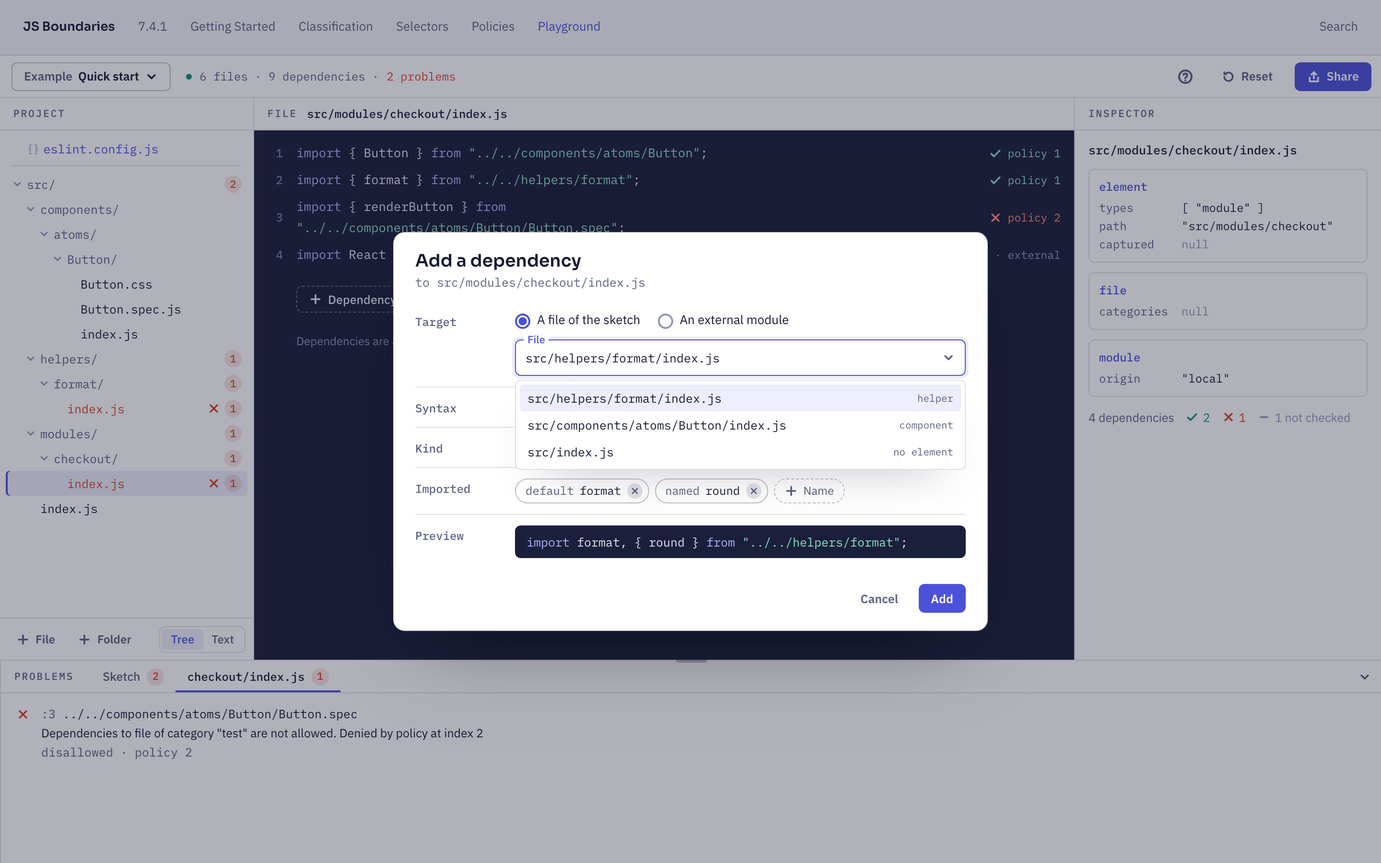
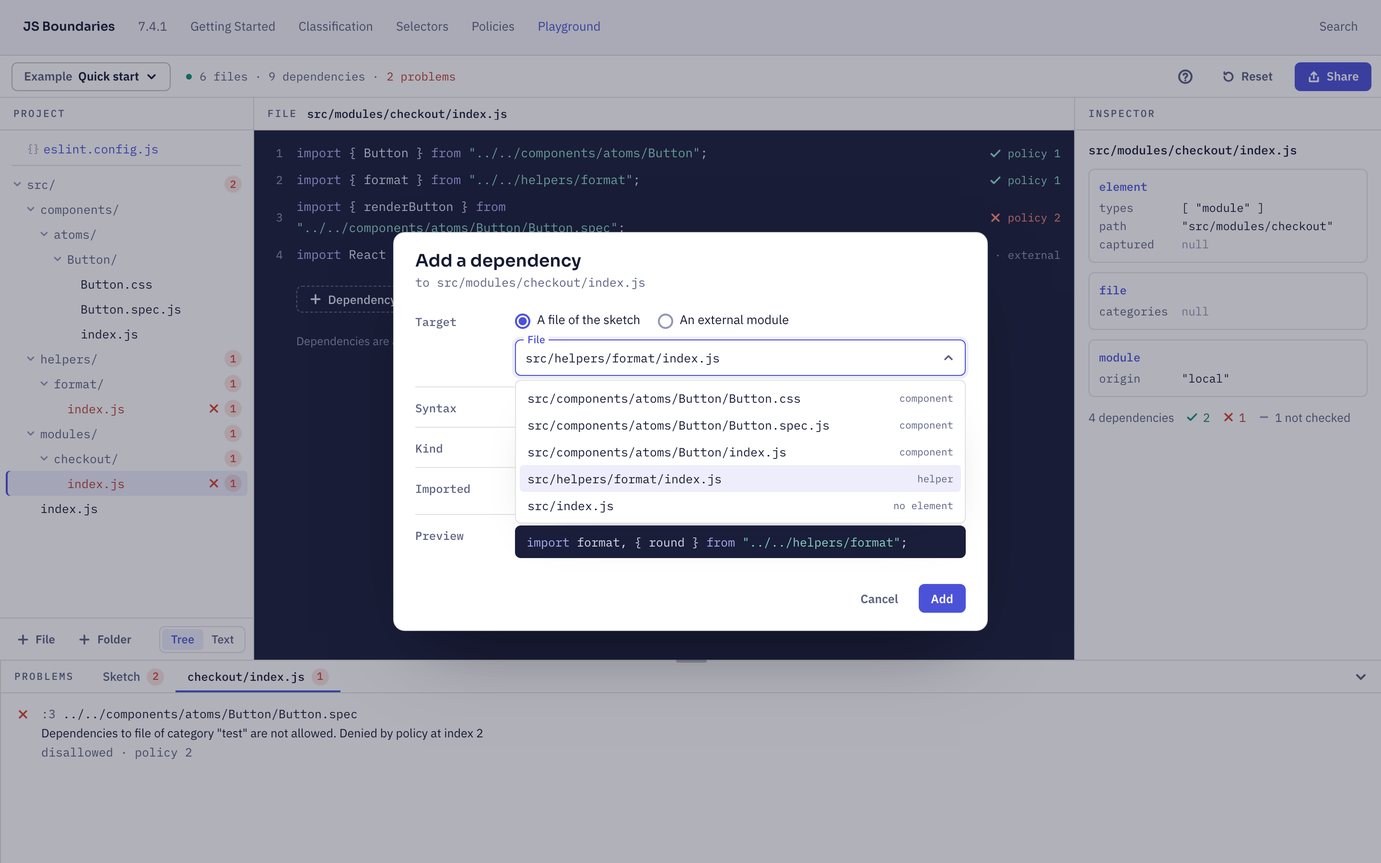
chore(playground): finish phase 6 in the plan

Changed region(s): [[0.375, 0.4978, 0.6562, 0.6222], [0.4375, 0.4356, 0.5312, 0.4667], [0.5312, 0.4667, 0.5625, 0.4978]]

diff --git a/.agents/plans/playground/mockups/playground.html b/.agents/plans/playground/mockups/playground.html
@@ -150,19 +150,44 @@
         stroke-linejoin: round;
       }
 
+      /* Text in a state color mixes 15% of --jsb-ink into the token, for contrast; "not checked" text is
+         --jsb-muted. Icons, count badges, outlines and the colors inside code areas keep the plain tokens. */
       .ok {
-        color: var(--jsb-ok);
+        color: color-mix(in srgb, var(--jsb-ok) 85%, var(--jsb-ink));
       }
 
       .bad {
-        color: var(--jsb-bad);
+        color: color-mix(in srgb, var(--jsb-bad) 85%, var(--jsb-ink));
       }
 
       .warn {
-        color: var(--jsb-warn);
+        color: color-mix(in srgb, var(--jsb-warn) 85%, var(--jsb-ink));
       }
 
       .faint {
+        color: var(--jsb-muted);
+      }
+
+      .icon.ok,
+      .ok .icon,
+      .count.ok {
+        color: var(--jsb-ok);
+      }
+
+      .icon.bad,
+      .bad .icon,
+      .count.bad {
+        color: var(--jsb-bad);
+      }
+
+      .icon.warn,
+      .warn .icon,
+      .count.warn {
+        color: var(--jsb-warn);
+      }
+
+      .icon.faint,
+      .faint .icon {
         color: var(--jsb-faint);
       }
 
@@ -441,7 +466,7 @@
       }
 
       .tree li.is-bad .name {
-        color: var(--jsb-bad);
+        color: color-mix(in srgb, var(--jsb-bad) 85%, var(--jsb-ink));
       }
 
       .tree li.is-target {
@@ -527,10 +552,6 @@
         font: 12px/20px var(--jsb-font-mono);
         color: var(--jsb-ink);
         white-space: pre;
-      }
-
-      .text-mode .dep {
-        color: var(--jsb-muted);
       }
 
       .text-mode .caret {
@@ -1196,6 +1217,10 @@
         position: relative;
       }
 
+      .field .flip {
+        transform: rotate(180deg);
+      }
+
       .listbox {
         position: absolute;
         z-index: 1;
@@ -1568,19 +1593,19 @@
           <pre class="text-mode" data-show="text" aria-label="Project as text">eslint.config.js
 src/components/atoms/Button/Button.css
 src/components/atoms/Button/Button.spec.js
-<span class="dep">  import { Button } from "./index";</span>
+  import { Button } from "./index";
 src/components/atoms/Button/index.js
-<span class="dep">  import { format } from "../../../helpers/format";</span>
-<span class="dep">  import "./Button.css";</span>
+  import { format } from "../../../helpers/format";
+  import "./Button.css";
 src/helpers/format/index.js
-<span class="dep">  import { Button } from "../../components/atoms/Button";</span>
+  import { Button } from "../../components/atoms/Button";
 src/modules/checkout/index.js
-<span class="dep">  import { Button } from "../../components/atoms/Button";</span>
-<span class="dep">  import { format } from "../../helpers/format";</span>
-<span class="dep">  import { renderButton } from "../../components/atoms/Button/Button.spec";</span>
-<span class="dep">  import React from "react";</span>
+  import { Button } from "../../components/atoms/Button";
+  import { format } from "../../helpers/format";
+  import { renderButton } from "../../components/atoms/Button/Button.spec";
+  import React from "react";
 src/index.js
-<span class="dep">  import "./modules/checkout";</span>
+  import "./modules/checkout";
 src/pages/<span class="caret"></span>
 </pre>
 
@@ -1645,18 +1670,18 @@ src/pages/<span class="caret"></span>
             <ol class="lines">
               <li class="line"><span class="gut"></span><span class="ln">1</span><span class="stmt">{</span></li>
               <li class="line"><span class="gut"></span><span class="ln">2</span><span class="stmt">  <span class="key">settings</span>: {</span></li>
-              <li class="line"><span class="gut"></span><span class="ln">3</span><span class="stmt">    <span class="str">"boundaries/elements"</span>: [</span></li>
+              <li class="line"><span class="gut"></span><span class="ln">3</span><span class="stmt">    <span class="key">"boundaries/elements"</span>: [</span></li>
               <li class="line"><span class="gut"></span><span class="ln">4</span><span class="stmt">      { <span class="key">type</span>: <span class="str">"helper"</span>, <span class="key">pattern</span>: <span class="str">"helpers/*"</span> },</span></li>
               <li class="line"><span class="gut"><svg class="icon" style="color: var(--jsb-code-number)" data-show="config"><use href="#i-warn" /></svg></span><span class="ln">5</span><span class="stmt">      <span data-class-in="config:u-warn">{ <span class="key">type</span>: <span class="str">"component"</span>, <span class="key"><span data-show="config">patern</span><span data-show="policy">pattern</span></span>: <span class="str">"components/*/*"</span> }</span>,</span></li>
               <li class="line"><span class="gut"></span><span class="ln">6</span><span class="stmt">      { <span class="key">type</span>: <span class="str">"module"</span>, <span class="key">pattern</span>: <span class="str">"modules/*"</span> },</span></li>
               <li class="line"><span class="gut"></span><span class="ln">7</span><span class="stmt">    ],</span></li>
-              <li class="line"><span class="gut"></span><span class="ln">8</span><span class="stmt">    <span class="str">"boundaries/files"</span>: [</span></li>
+              <li class="line"><span class="gut"></span><span class="ln">8</span><span class="stmt">    <span class="key">"boundaries/files"</span>: [</span></li>
               <li class="line"><span class="gut"></span><span class="ln">9</span><span class="stmt">      { <span class="key">pattern</span>: <span class="str">"**/*.spec.js"</span>, <span class="key">category</span>: <span class="str">"test"</span> },</span></li>
               <li class="line"><span class="gut"></span><span class="ln">10</span><span class="stmt">      { <span class="key">pattern</span>: <span class="str">"**/*.css"</span>, <span class="key">category</span>: <span class="str">"style"</span> },</span></li>
               <li class="line"><span class="gut"></span><span class="ln">11</span><span class="stmt">    ],</span></li>
               <li class="line"><span class="gut"></span><span class="ln">12</span><span class="stmt">  },</span></li>
               <li class="line"><span class="gut"></span><span class="ln">13</span><span class="stmt">  <span class="key">rules</span>: {</span></li>
-              <li class="line"><span class="gut"></span><span class="ln">14</span><span class="stmt">    <span class="str">"boundaries/dependencies"</span>: [<span class="num">2</span>, {</span></li>
+              <li class="line"><span class="gut"></span><span class="ln">14</span><span class="stmt">    <span class="key">"boundaries/dependencies"</span>: [<span class="num">2</span>, {</span></li>
               <li class="line" data-active-in="config"><span class="gut"><svg class="icon" style="color: var(--jsb-code-error)" data-show="config"><use href="#i-cross" /></svg></span><span class="ln">15</span><span class="stmt">      <span class="key">default</span>: <span class="str" data-class-in="config:u-error"><span data-show="config">"dissallow"</span><span data-show="policy">"disallow"</span></span>,</span></li>
               <li class="line"><span class="gut"></span><span class="ln">16</span><span class="stmt">      <span class="key">policies</span>: [</span></li>
               <li class="line"><span class="gut"></span><span class="ln">17</span><span class="stmt">        {</span></li>
@@ -1675,6 +1700,8 @@ src/pages/<span class="caret"></span>
               <li class="line"><span class="gut"></span><span class="ln">30</span><span class="stmt">    }],</span></li>
               <li class="line"><span class="gut"></span><span class="ln">31</span><span class="stmt">  },</span></li>
               <li class="line"><span class="gut"></span><span class="ln">32</span><span class="stmt">}</span></li>
+              <!-- The config text ends with a newline, so the editor shows an empty last line -->
+              <li class="line"><span class="gut"></span><span class="ln">33</span><span class="stmt"></span></li>
             </ol>
             <!-- Above the range and from its start, where @codemirror/lint opens its hover tooltip -->
             <div class="lint-tip" style="top: 240px; left: 167px" data-show="config">
@@ -1788,7 +1815,7 @@ src/pages/<span class="caret"></span>
               <button class="tab mono-label" role="tab" data-show="policy" data-selected-tab-in="policy">eslint.config.js</button>
             </div>
             <span class="spacer"></span>
-            <button class="icon-btn" type="button" aria-label="Collapse the problems"><svg class="icon"><use href="#i-collapse" /></svg></button>
+            <button class="btn text icon-only" type="button" aria-label="Collapse the problems" title="Collapse the problems"><svg class="icon"><use href="#i-collapse" /></svg></button>
           </div>
 
           <!-- Sketch tab -->
@@ -1890,11 +1917,15 @@ src/pages/<span class="caret"></span>
                   <span class="floating">File</span>
                   src/helpers/format/index.js
                   <span class="spacer"></span>
-                  <svg class="icon muted"><use href="#i-chev-d" /></svg>
+                  <!-- The chevron points up while the list is open -->
+                  <svg class="icon muted flip"><use href="#i-chev-d" /></svg>
                 </div>
+                <!-- Every file of the sketch except the open one, in the order of the tree -->
                 <div class="listbox" role="listbox">
-                  <div class="on"><span>src/helpers/format/index.js</span><small>helper</small></div>
+                  <div><span>src/components/atoms/Button/Button.css</span><small>component</small></div>
+                  <div><span>src/components/atoms/Button/Button.spec.js</span><small>component</small></div>
                   <div><span>src/components/atoms/Button/index.js</span><small>component</small></div>
+                  <div class="on"><span>src/helpers/format/index.js</span><small>helper</small></div>
                   <div><span>src/index.js</span><small>no element</small></div>
                 </div>
               </div>

diff --git a/.agents/plans/playground.md b/.agents/plans/playground.md
@@ -3,7 +3,7 @@
 
 Index of the plan. The plan is split so that an independent session can implement one phase with no other context than the files named here plus the repository's own agent files. The source of every design decision is [RFC #538](https://github.com/javierbrea/eslint-plugin-boundaries/discussions/538); the tracking issue is #539 and the milestone is [Playground](https://github.com/javierbrea/eslint-plugin-boundaries/milestone/45).
 
-Status (2026-11-06): the extraction is released (`config` and `policies` 1.0.1 in v7.4.2, 2026-11-05), and `release` was merged into this branch after it. Phases 4 (#599) and 5 (#621, merged on 2026-11-06) are in this branch: the panes classify the files of a sketch, following the mockup (decision 16). Phase 6 (#553) is in progress on `feat/553/playground-verdicts`.
+Status (2026-11-06): the extraction is released (`config` and `policies` 1.0.1 in v7.4.2, 2026-11-05), and `release` was merged into this branch after it. Phases 4 (#599) and 5 (#621) are in this branch: the panes classify the files of a sketch, following the mockup (decision 16). Phase 6 (#553) is done on `feat/553/playground-verdicts`, in draft PR #630 into this branch: dependencies entered with the picker and evaluated with `@boundaries/policies`, with their verdicts in the file pane, the tree, the inspector and the problems panel; its review updated the mockup and the colors of state text (decision 18). Phase 7 (#554) starts when it merges.
 
 This plan lives on the integration branch `feat/539/playground`. How it is shared, kept true and removed is in the "Where it lives", "Starting a phase" and "Finishing a phase" sections of the `write-plan` skill; phase 9 removes it.
 
@@ -12,11 +12,10 @@ This plan lives on the integration branch `feat/539/playground`. How it is share
 | File | Read it when |
 | --- | --- |
 | `playground/00-shared.md` | Always. Environment, branching, package conventions, quality gates, definition of done, the interface. |
-| `playground/06-m2-verdicts.md` | Phase 6 (#553): M2. |
 | `playground/07-m3-share-embed.md` | Phase 7 (#554): M3. |
 | `playground/08-docs.md` | Phase 8 (#555): the guide page and the docs buttons. |
 | `playground/09-cleanup.md` | Phase 9: remove the plan before merging into `release`. |
-| `playground/mockups/` | Phases 6 to 8: the approved HTML mockup of the interface and its renders, which `00-shared.md` section 6 describes. |
+| `playground/mockups/` | Phases 7 and 8: the approved HTML mockup of the interface and its renders, which `00-shared.md` section 6 describes. |
 
 ## Phases
 
@@ -31,7 +30,7 @@ This plan lives on the integration branch `feat/539/playground`. How it is share
 | — Browser e2e | #558 | `chore/558/browser-e2e` | #510 and #557 merged | `release` | `chore: Test the browser builds in Chromium, Firefox and WebKit` | #583 |
 | 4 Scaffold | #551 | `feat/551/playground-scaffold` | #510 and 2 merged into `release` and `release` merged here | `feat/539/playground` | `feat(playground): scaffold the package and the website shell` | #599 |
 | 5 M1 | #552 | `feat/552/playground-identify` | 4 merged | `feat/539/playground` | `feat(playground): identify the files of a sketched project` | #621 |
-| 6 M2 | #553 | `feat/553/playground-verdicts` | 5 merged | `feat/539/playground` | `feat(playground): verdicts of the dependencies` | |
+| 6 M2 | #553 | `feat/553/playground-verdicts` | 5 merged | `feat/539/playground` | `feat(playground): verdicts of the dependencies` | #630 |
 | 7 M3 | #554 | `feat/554/playground-share` | 6 merged | `feat/539/playground` | `feat(playground): share by URL and embed in the docs` | |
 | 8 Docs | #555 | `docs/555/playground-guide` | 7 merged | `feat/539/playground` | `docs(website): document the playground` | |
 | 9 Cleanup | — | `chore/539/playground-cleanup` | 8 merged | `feat/539/playground` | `chore(playground): remove the playground plan` | |
@@ -66,8 +65,9 @@ Taken in RFC #538 unless another source is named. A session does not reopen them
 13. A release follows phase 3, before the playground phases: `config` and `policies` at `1.0.0`, a patch of the plugin, and whatever else `release` holds, with the `release` skill (maintainer, 2026-10-29).
 14. The config node is parsed with `@humanwhocodes/momoa` in JSON5 mode and edited with CodeMirror 6, the JSON5 grammar of `codemirror-json5` and `@codemirror/lint` (research note 3, maintainer, 2026-11-02).
 15. The widgets are MUI (`@mui/material`, `@mui/x-tree-view`), chosen over React Aria Components because the later local app and its graph view build on it (research note 4, maintainer, 2026-11-02). The theme reads the `--jsb-*` tokens through `cssVariables: { nativeColor: true }`, scoped with `rootSelector` and `colorSchemeSelector` to the playground root and the host's `data-theme`; Emotion uses its own cache key; no `CssBaseline`; overlays render into the root; the `ThemeProvider` gets `colorSchemeNode={null}` and `storageManager={null}`, because MUI otherwise sets its own `data-theme` attribute on `<html>` and reads and follows the mode saved in `localStorage` (phase 4, 2026-11-02; corrected in the review of #599). The MUI variables have their own prefix, `jsb-play`, and overlays stay in the root, with the limits that `packages/playground/AGENTS.md` ("Stack") records (review of #599, maintainer, 2026-11-03). React, React DOM, `@mui/material`, `@emotion/react` and `@emotion/styled` are peer dependencies, so that each host has one instance of their context. Split panes are `react-resizable-panels`.
-16. The interface follows the mockup in `playground/mockups/`, approved by the maintainer on 2026-11-04, updated with the review of the phase 5 page the same day, and described in `00-shared.md` section 6: the page has no visible header and the playground fills it below the navbar, with a help dialog in the top bar in place of the lead.
+16. The interface follows the mockup in `playground/mockups/`, approved by the maintainer on 2026-11-04, updated with the reviews of the phase 5 page (2026-11-04) and of the phase 6 page (2026-11-06), and described in `00-shared.md` section 6: the page has no visible header and the playground fills it below the navbar, with a help dialog in the top bar in place of the lead.
 17. The state of a playground instance is a store per mount of the shell, written as pure transitions and read through hooks, and whatever opens something produces a typed `Target` that one transition opens; the store owns the engine of the instance. The data of a local app reaches it through other implementations of `ProjectSource` and `StateStore`, not through other hooks (review of #621, maintainer, 2026-11-04).
+18. Text in a state color outside code areas mixes 85% of the token with 15% of `--jsb-ink`, and not-checked text is `--jsb-muted`, so that the page passes Lighthouse Accessibility 100; icons, badges and outlines keep the tokens (`00-shared.md` section 6, "Color"; maintainer, 2026-11-06, review of the phase 6 page).
 
 ## Open questions
 

diff --git a/.agents/plans/playground/00-shared.md b/.agents/plans/playground/00-shared.md
@@ -63,7 +63,7 @@ For `/playground/`, on the production build served locally (`pnpm --filter websi
 
 ## 6. Interface (phases 5 to 8)
 
-The approved mockup is the ground truth: `playground/mockups/playground.html`, rendered by `playground/mockups/render.mjs` into `playground/mockups/<state>-<theme>.png` (states `empty`, `file`, `dependency`, `picker`, `config`, `policy`, `text`, `help`; 1440×900 and the 390×844 note). The maintainer approved it on 2026-11-04, and the review of the phase 5 page updated it the same day. Exact sizes and paddings are in its CSS; this section holds what the components must follow. A deliberate difference between a phase and the mockup is a plan edit that updates the mockup and its renders.
+The approved mockup is the ground truth: `playground/mockups/playground.html`, rendered by `playground/mockups/render.mjs` into `playground/mockups/<state>-<theme>.png` (states `empty`, `file`, `dependency`, `picker`, `config`, `policy`, `text`, `help`; 1440×900 and the 390×844 note). The maintainer approved it on 2026-11-04, and the reviews of the phase 5 page (2026-11-04) and of the phase 6 page (2026-11-06) updated it. Exact sizes and paddings are in its CSS; this section holds what the components must follow. A deliberate difference between a phase and the mockup is a plan edit that updates the mockup and its renders.
 
 ### Page
 
@@ -90,6 +90,7 @@ The approved mockup is the ground truth: `playground/mockups/playground.html`, r
 - Every color is a `--jsb-*` token; the only literals are the dialog backdrop (34% `--jsb-ink` in light, `rgba(0, 0, 0, 0.55)` in dark) and the dialog shadow.
 - Surfaces: panes `--jsb-card`; text mode and listboxes `--jsb-paper-2`. The file pane, the config editor, the policy card and the picker preview are code areas on `--jsb-code` in both themes, with `--jsb-code-fg`, `--jsb-code-keyword`, `--jsb-code-string`, `--jsb-code-comment` (also line numbers) and `--jsb-code-number`.
 - States, outside and inside code areas: allowed `--jsb-ok` / `--jsb-code-string`; disallowed and errors `--jsb-bad` / `--jsb-code-error`; warnings `--jsb-warn` / `--jsb-code-number`; not checked `--jsb-faint` / `--jsb-code-comment`. Count badges are 18 px pills on 14% `--jsb-bad` (16% `--jsb-warn`).
+- Text in a state color outside code areas mixes 85% of the token with 15% of `--jsb-ink` (`color-mix(in srgb, var(--jsb-bad) 85%, var(--jsb-ink))`), and not-checked text is `--jsb-muted`, so that it passes 4.5:1 on `--jsb-card` in both themes (Lighthouse Accessibility 100); icons, badges and outlines keep the plain tokens (maintainer, 2026-11-06).
 - Selection: `--jsb-accent-soft` with a 2 px inset `--jsb-accent` bar on the left; in code areas `--jsb-code-line` with a 2 px `--jsb-code-keyword` bar. A highlighted policy is 13% `--jsb-code-keyword` with a 3 px bar. Hover is `--jsb-accent-soft` (60% in the tree), `--jsb-code-line` in code areas.
 
 ### Icons
@@ -108,8 +109,8 @@ The 15 icons of the mockup (check, cross, warn, skip, chevron right and down, pl
 ### Panes
 
 - Top bar: the example picker (outlined, `Example <name> ▾`), the status in mono (`6 files · 9 dependencies · 2 problems` after a 6 px dot, `--jsb-ok` or `--jsb-bad`; `0 problems` in `--jsb-muted` when there are none; `config has errors` while the rule options are invalid), then, right-aligned, Help (icon-only), Reset (text) and Share (contained). The playground has no title of its own. Phase 5 draws the files and the problems; phase 6 adds the dependencies count, and phase 7 the example picker, Help, Reset and Share.
-- Project: head `Project`; the tree; text mode is a textarea with one path per line, folders ending in `/`, dependencies indented two spaces under their file in `--jsb-muted`, an inset 1 px `--jsb-accent` ring, and the head hint `One path per line · dependencies indented`.
-- Node in focus, a file: head `File <path>`. One line per dependency in a grid of 44 px line number, statement, 64 px actions and 176 px verdict. The statement wraps and is never cut; edit and delete show on hover and focus; the verdict is right-aligned: `✓ policy N`, `✕ policy N` or `✕ default`, `– not checked · <reason>` with the engine's skip reasons (`external` for `not-local`, `internal`, `from-unknown`). Below, a dashed `+ Dependency` button and a hint.
+- Project: head `Project`; the tree; text mode is a textarea with one path per line, folders ending in `/`, dependencies indented two spaces under their file, in the color of the paths (a textarea draws one color), an inset 1 px `--jsb-accent` ring, and the head hint `One path per line · dependencies indented`.
+- Node in focus, a file: head `File <path>`. One line per dependency in a grid of 44 px line number, statement, 64 px actions and 176 px verdict. The statement wraps and is never cut; edit and delete show on hover and focus; the verdict is right-aligned: `✓ policy N` or `✓ default`, `✕ policy N` or `✕ default` (▲ for a rule at `warn`), `– not checked · <reason>` with the engine's skip reasons (`external` for `not-local`, `not read` when `boundaries/dependency-nodes` leaves the syntax out, the others as they are), or `– not evaluated`; the words are in `src/domains/evaluation/ui/helpers/verdictText/`. Below, a dashed `+ Dependency` button and a hint.
 - Node in focus, the config: head `Config eslint.config.js` with the hint `JSON5 · the settings and rules of an ESLint config`. CodeMirror with an 18 px lint gutter (✕ error, ▲ warning) and line numbers; a diagnostic underlines with a wavy line the whole entry its path points at; the active line is 5% `--jsb-code-fg`; no ring is drawn around the focused editor, whose cursor and active line show the focus.
 - Nothing in focus: head `Nothing open`, a 16 px `--jsb-grid` grid background, `Open a file or the config`, a short text, and `Open eslint.config.js` and `+ File`.
 - Inspector, a file: the path, then three facets named and keyed as the engine returns them (`element`: `types`, `path`, `captured`; `file`: `categories`; `module`: `origin`), values as JSON with `null` in `--jsb-faint`, then `n dependencies ✓ k ✕ k – k not checked`.

diff --git a/.agents/plans/playground/07-m3-share-embed.md b/.agents/plans/playground/07-m3-share-embed.md
@@ -9,7 +9,7 @@ Read first:
 
 - RFC #538, "Research tasks" 5, "Milestones" M3, "Acceptance" (a state shared by URL opens identically elsewhere), "Dependencies" (the teaser and the navbar entry switch on with the first usable version).
 - `packages/playground/src/contract/StateStore.types.ts`, the interface the hash store implements (`load` and `save`, both asynchronous), and the lazy factory of `packages/website/src/pages/playground.tsx`, where the hash store replaces the `MemoryStore`.
-- "From phase 5" below (the examples, saving), and what phase 6 hands off (the complete `Sketch`).
+- "From phase 5" and "From phase 6" below (the examples, saving, the dependencies of a sketch).
 - `packages/website/src/data/site/links.ts` (`GITHUB_PLAYGROUND_ISSUE`), `src/components/home/PlaygroundTeaser/`, `docusaurus.config.ts` navbar items, `src/components/CodeDiff/` (an existing MDX component of the docs, the model for the new one and its `docs-component` element type), `packages/website/docs/quick-start.mdx` (the first page to get a button, in phase 8).
 - Docusaurus docs on client-side routing and `useHistory` / `useLocation` for the hash check.
 
@@ -22,6 +22,13 @@ Preconditions: phase 6 merged.
 - `Playground` (`src/app/Playground.tsx`) saves every sketch that the shell produces with `store.save`, never the loaded one, and shows nothing when a save fails, because the `MemoryStore` cannot fail: the hash store decides what a failed save shows.
 - The top bar (`src/domains/shell/ui/atoms/TopBar/TopBar.tsx`) draws the status only; the example picker, Help, Reset and Share go where `00-shared.md` section 6 places them.
 - The shell takes its sketch once (`initialSketch`), and its store owns it from then on (`src/domains/session/data/store/store.ts`). `Playground` mounts a new shell after each load of the source or the store, which is how a sketch from outside reaches the panes. The top bar reads the store through `ShellTopBar` (`src/domains/shell/modules/ShellTopBar/`).
+
+## From phase 6
+
+- A `Sketch` is complete: its tree, its config and its dependencies (`src/contract/Sketch.types.ts`). `QUICK_START_EXAMPLE` has the nine dependencies of the mockup, which the measurement of step 1 already used.
+- The sketch operations refuse a dependency that the sketch cannot hold (`getDependencyError` of `src/domains/project/helpers/sketch/dependencies.ts`: a target that is not a file of the sketch or is its own file, names that its syntax cannot write, an invalid module name), so a sketch never holds one. A sketch decoded from a URL passes the same check before the shell takes it, after `getPathError` (`src/domains/project/helpers/sketch/paths.ts`) on every path of its tree, which is where quotes and backslashes are refused.
+- The engine (`createEngine` of `src/domains/evaluation/helpers/engine/`) is the single evaluation entry; the verdicts are `Evaluation.dependencies`.
+- `Focus` has four variants (nothing, the config, a file, a dependency of a file; `src/domains/session/helpers/focus/`), which the open point of this file is about.
 
 ## Scope
 

diff --git a/.agents/plans/playground/08-docs.md b/.agents/plans/playground/08-docs.md
@@ -15,6 +15,14 @@ Read first:
 
 Preconditions: phase 7 merged.
 
+## From phase 6
+
+The words the guide documents are in the code, so the page quotes them from there:
+
+- The verdicts and their reasons: `src/domains/evaluation/ui/helpers/verdictText/` (`policy N`, `default`, `not checked · external`, `not read`, `not evaluated`, and the sentence of each skip reason and of each reason why nothing is evaluated).
+- The picker: `src/domains/files/ui/helpers/dependencyLabels/` (`A file of the sketch`, `An external module`, the syntaxes `import`, `export … from`, `require()`, `import()`, the kinds and the imported names), and the statement forms that text mode reads and writes, in `src/domains/project/helpers/sketch/statements.ts`.
+- What differs from running ESLint, for the "Not the same as running ESLint" note: sources are relative paths computed from the sketch, not resolved from `node_modules`; only the `dependencies` rule is evaluated, or `element-types` when it is the one written; a rule entry without options checks nothing, as in the plugin; a syntax that `boundaries/dependency-nodes` leaves out is `not read`.
+
 ## Scope
 
 In: the guide page and its sidebar entry, the buttons on the chosen docs pages with their sketches, the bug template line. Out: any playground feature; docs of `@boundaries/config` and `@boundaries/policies` as packages (their READMEs cover them until an RFC says otherwise).
